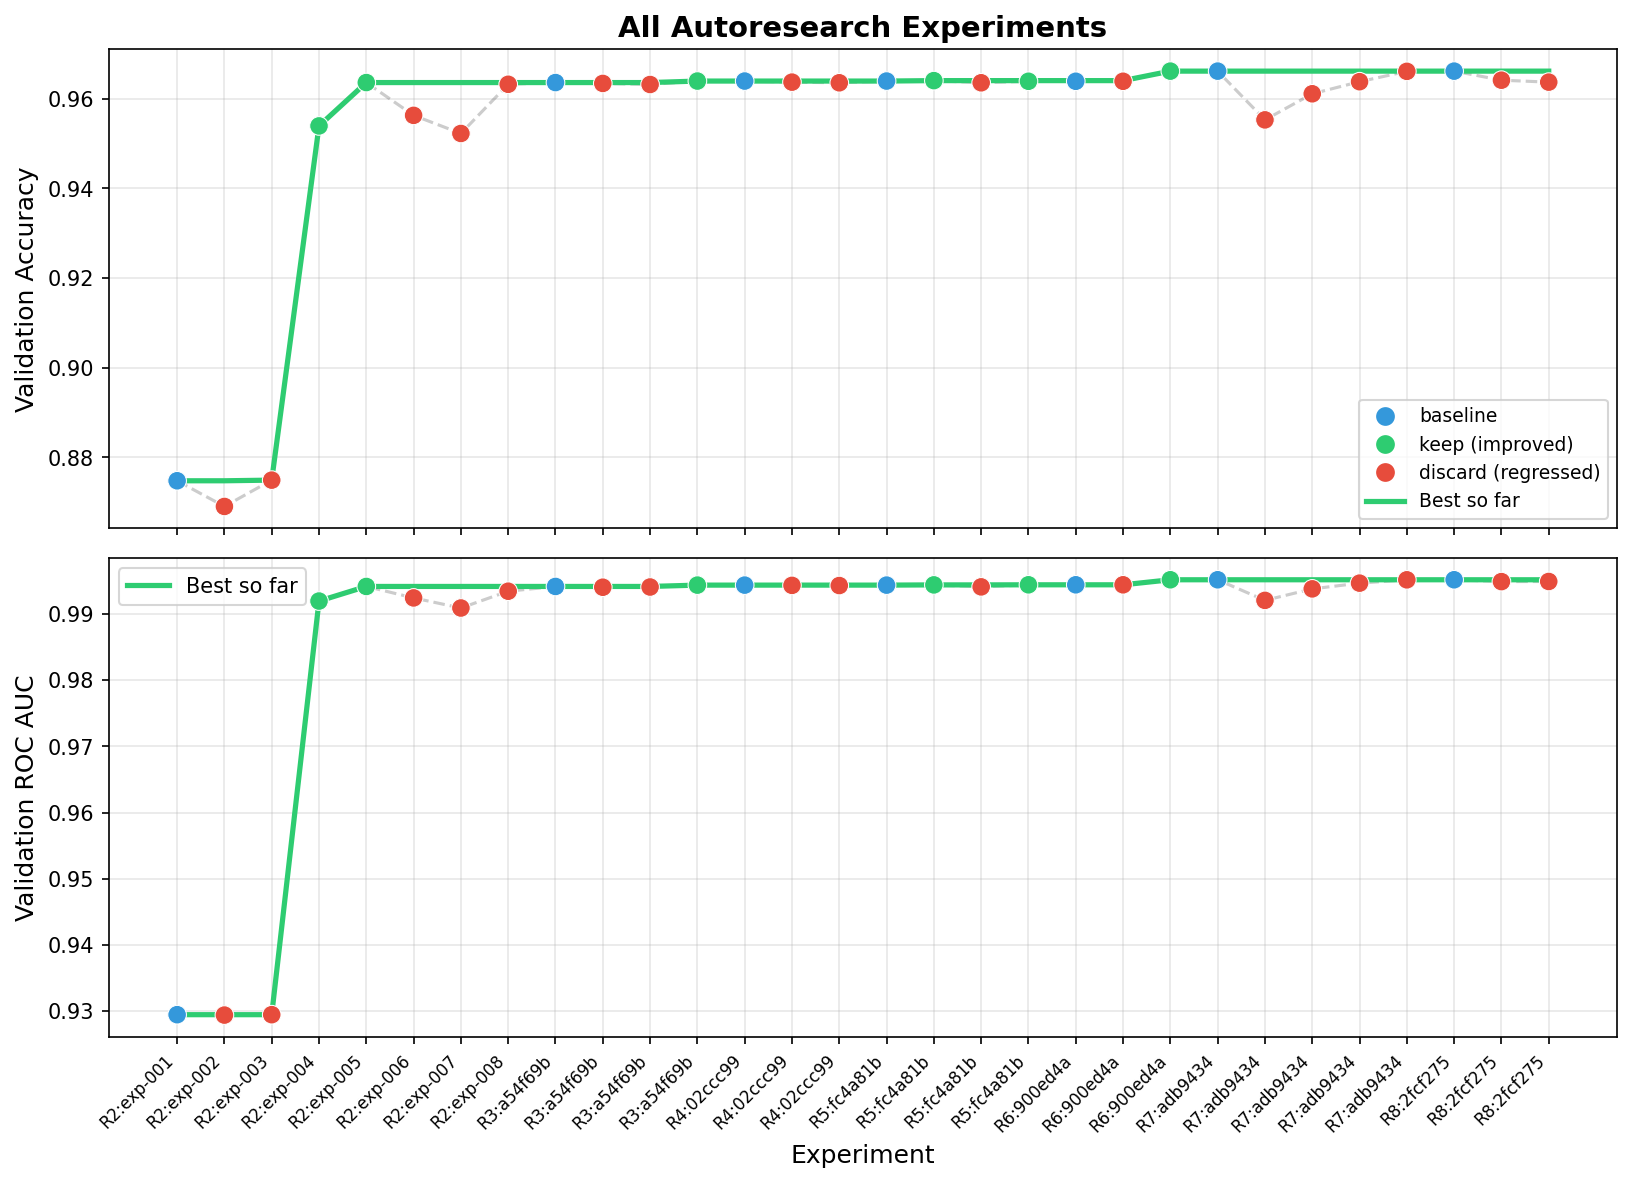
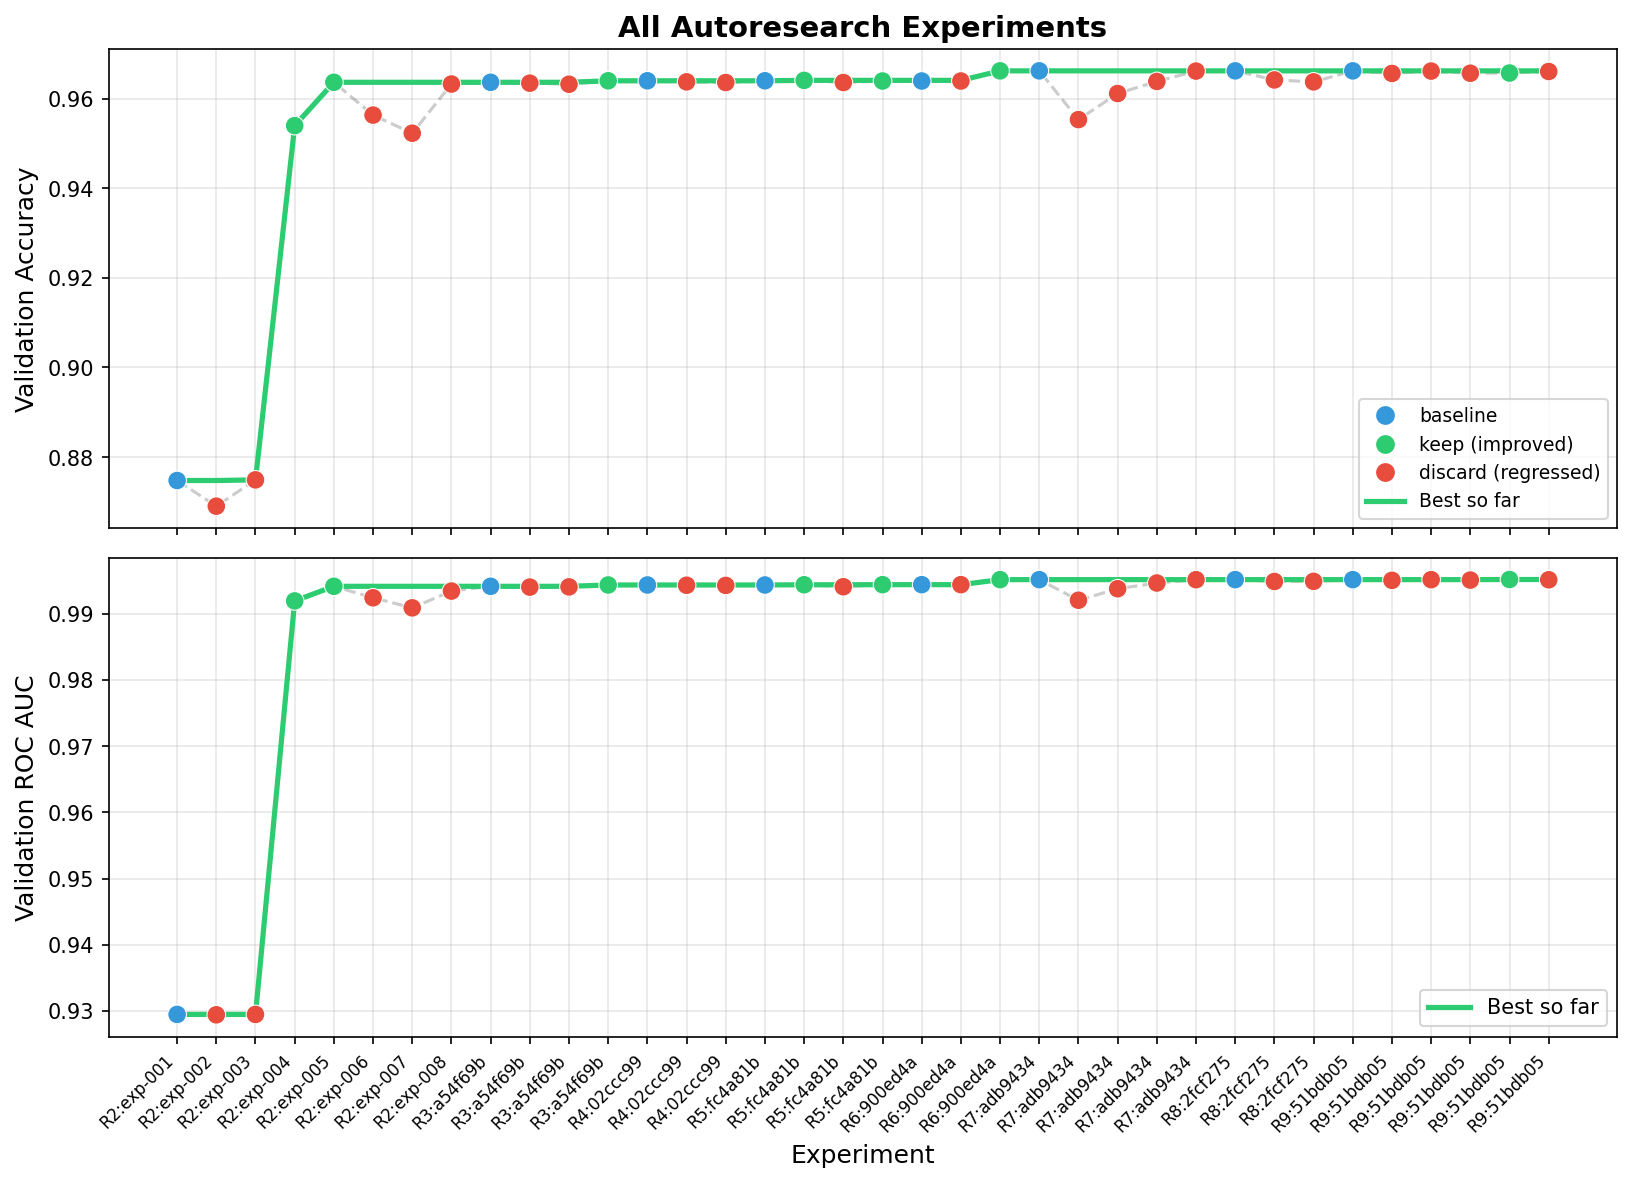
run 9

Changed region(s): [[0.0625, 0.4869, 0.9688, 0.9738], [0.125, 0.0304, 0.9688, 0.4565]]

diff --git a/model.py b/model.py
@@ -6,7 +6,6 @@ The function build_model() must return an sklearn-compatible estimator.
 from sklearn.compose import ColumnTransformer
 from sklearn.ensemble import RandomForestClassifier
 from sklearn.impute import SimpleImputer
-from sklearn.model_selection import GridSearchCV
 from sklearn.pipeline import Pipeline
 from sklearn.preprocessing import OneHotEncoder, StandardScaler
 
@@ -51,23 +50,14 @@ def build_model():
         ]), categorical_features),
     ])
 
-    pipeline = Pipeline([
+    return Pipeline([
         ("preprocess", preprocess),
         ("model", RandomForestClassifier(
             criterion="log_loss",
             n_estimators=1000,
+            max_features=0.7,
+            min_samples_split=3,
             random_state=42,
             n_jobs=1,
         )),
     ])
-
-    return GridSearchCV(
-        estimator=pipeline,
-        param_grid={
-            "model__max_features": ["sqrt", 0.7],
-        },
-        scoring="roc_auc",
-        cv=3,
-        n_jobs=1,
-        refit=True,
-    )

diff --git a/README.md b/README.md
@@ -62,6 +62,12 @@ Track the performance of manual baseline models against the automated research r
 | Cross-Validated Random Forest Max Features | Autoresearch |8|567.34 seconds |0.9952 | 0.9662 | Preserved | Run 8 baseline using the current best `GridSearchCV` random forest tuned over `max_features`. |
 | Cross-Validated Gradient Boosting lr/depth/estimators | Autoresearch |8|1575.20 seconds |0.9949 | 0.9642 | Deleted | Iteration 2 discarded. `GridSearchCV` tuned learning rate, depth, and estimator count for `GradientBoostingClassifier`, but ROC AUC remained below the run baseline. |
 | Cross-Validated Gradient Boosting Shrinkage | Autoresearch |8|2210.87 seconds |0.9949 | 0.9637 | Deleted | Iteration 3 discarded. A lower-learning-rate, depth-5 grid slightly improved ROC AUC over iteration 2 but still did not beat the random forest baseline. |
+| Cross-Validated Random Forest Max Features | Autoresearch |9|585.10 seconds |0.9952 | 0.9662 | Preserved | Run 9 baseline using the current best `GridSearchCV` random forest tuned over `max_features`; completed just inside the 600-second trial cap. |
+| Random Forest n=1000 max_features=0.65 | Autoresearch |9|144.72 seconds |0.9951 | 0.9656 | Deleted | Iteration 2 discarded. Direct single-model trial lowered the CV search cost but reduced ROC AUC below the run baseline. |
+| Random Forest n=1100 max_features=0.7 | Autoresearch |9|177.57 seconds |0.9952 | 0.9661 | Deleted | Iteration 3 discarded. A direct forest near the known good `max_features=0.7` setting nearly tied the baseline but did not improve ROC AUC. |
+| Random Forest n=1000 max_features=0.75 | Autoresearch |9|165.54 seconds |0.9951 | 0.9656 | Deleted | Iteration 4 discarded. Nudging `max_features` higher reduced validation ROC AUC. |
+| Random Forest n=1000 max_features=0.7 split=3 | Autoresearch |9|149.17 seconds |0.9952 | 0.9657 | Preserved | Iteration 5 kept and became the new best model. Added `min_samples_split=3` to the direct 1000-tree `log_loss` random forest with `max_features=0.7`. |
+| Random Forest n=1000 max_features=0.7 split=4 | Autoresearch |9|148.77 seconds |0.9952 | 0.9660 | Deleted | Iteration 6 discarded. Increasing `min_samples_split` to 4 reduced ROC AUC below the iteration 5 model. |
 
 \* Accuracy values for the first three logged rows were not preserved because this column was added after those earlier runs had already been documented.
 